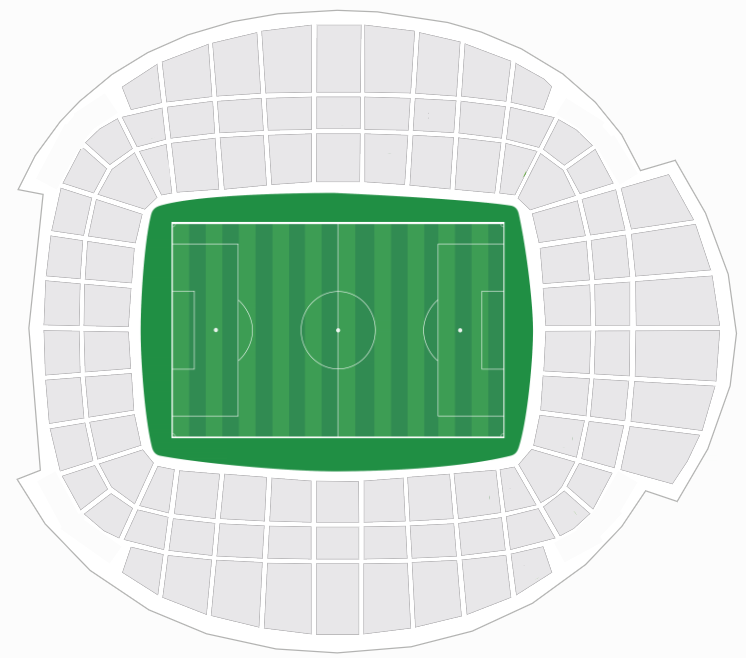
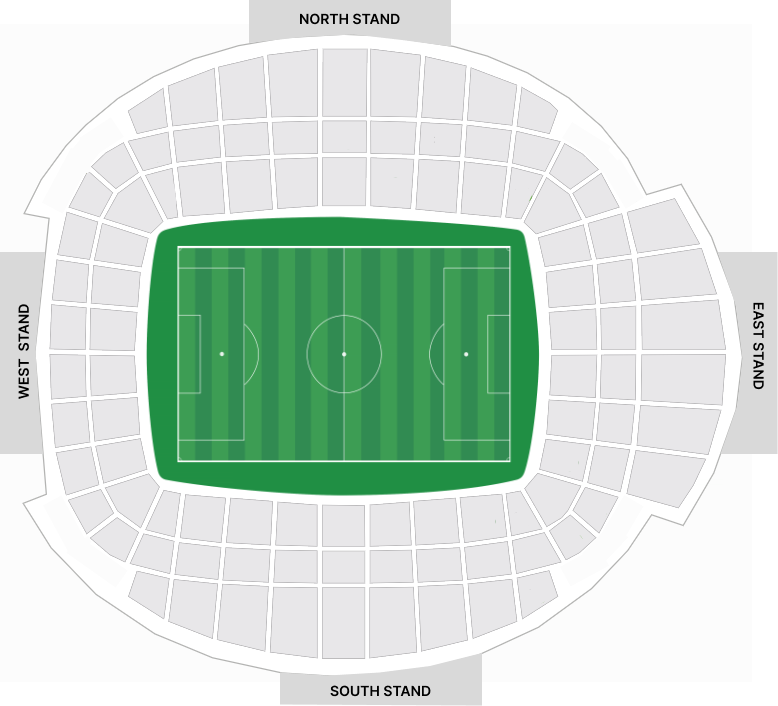
Stadium image swapping done

diff --git a/src/components/user/booking/BookingSection.tsx b/src/components/user/booking/BookingSection.tsx
@@ -7,6 +7,23 @@ import { useMutation } from "@tanstack/react-query";
 import { addToCart } from "../../../api/user";
 import { BookingSectionI, CartData, FixtureSeat, Seat, StandSeats } from "./BookingSectionInterface";
 
+//images
+import northVipImg from '../../../assets/stadium/vip/north.png';
+import southVipImg from '../../../assets/stadium/vip/south.png';
+import eastVipImg from '../../../assets/stadium/vip/east.png';
+import westVipImg from '../../../assets/stadium/vip/west.png';
+
+import northPremiumImg from '../../../assets/stadium/premium/north.png';
+import southPremiumImg from '../../../assets/stadium/premium/south.png';
+import eastPremiumImg from '../../../assets/stadium/premium/north.png';
+import westPremiumImg from '../../../assets/stadium/premium/north.png';
+
+import northEconomyImg from '../../../assets/stadium/economy/north.png';
+import southEconomyImg from '../../../assets/stadium/economy/south.png';
+import eastEconomyImg from '../../../assets/stadium/economy/north.png';
+
+
+
 const BookingSection: React.FC<BookingSectionI> = ({ data, refetchFn }) => {
   const [ticketCount, setTicketCount] = useState(2);
   const [isOpen, setIsOpen] = useState(false);
@@ -211,7 +228,7 @@ const BookingSection: React.FC<BookingSectionI> = ({ data, refetchFn }) => {
               </div>
 
             )}
-            <div className="flex items-center mt-12 justify-center">
+            <div className="flex items-center mt-12 lg:mt-20 justify-center">
               {selectedSection !== 'vip' && <button className={`${styles.button_48} w-full`} onClick={submitHandler}><span>CONFIRM</span></button>
               }
               {selectedSection === 'vip' && <button onClick={vipNavigate} className={`${styles.button_48} w-full`}><span>CONFIRM</span></button>
@@ -222,8 +239,36 @@ const BookingSection: React.FC<BookingSectionI> = ({ data, refetchFn }) => {
 
 
         {/* image */}
-        <div className="p-5 px-10 lg:w-1/2 bg-white rounded border lg:ml-10 mt-10 lg:mt-0">
-          <img src={stadiumImg} className="" alt="" />
+        <div className="p-5 px-10 lg:w-1/2 bg-white rounded border lg:ml-10 mt-10 lg:mt-0 transition-all duration-300">
+          {!selectedSection && !selectedStand && <img src={stadiumImg}
+            className={`opacity-0 transition-opacity duration-300 ${!selectedSection && !selectedStand ? 'opacity-100' : 'opacity-0'
+              }`}
+            alt="" />}
+
+          {selectedSection == "vip" && selectedStand == "north" && <img src={northVipImg}
+            className=""
+            alt="" />}
+
+          {selectedSection == "premium" && selectedStand == "north" && <img src={northPremiumImg}
+            className=""
+            alt="" />}
+            
+          {selectedSection == "economy" && selectedStand == "north" && <img src={northEconomyImg}
+            className=""
+            alt="" />}
+
+          {selectedSection == "vip" && selectedStand == "south" && <img src={southVipImg} className="" alt="" />}
+          {selectedSection == "premium" && selectedStand == "south" && <img src={southPremiumImg} className="" alt="" />}
+          {selectedSection == "economy" && selectedStand == "south" && <img src={southEconomyImg} className="" alt="" />}
+
+          {selectedSection == "vip" && selectedStand == "east" && <img src={eastVipImg} className="" alt="" />}
+          {selectedSection == "premium" && selectedStand == "east" && <img src={eastPremiumImg} className="" alt="" />}
+          {selectedSection == "economy" && selectedStand == "east" && <img src={eastEconomyImg} className="" alt="" />}
+
+          {selectedSection == "vip" && selectedStand == "west" && <img src={westVipImg} className="" alt="" />}
+          {selectedSection == "premium" && selectedStand == "west" && <img src={westPremiumImg} className="" alt="" />}
+
+              <h1 className="text-center mt-2 tracking-widest">Derby Dome Stadium</h1>
         </div>
       </div>
     </div>
